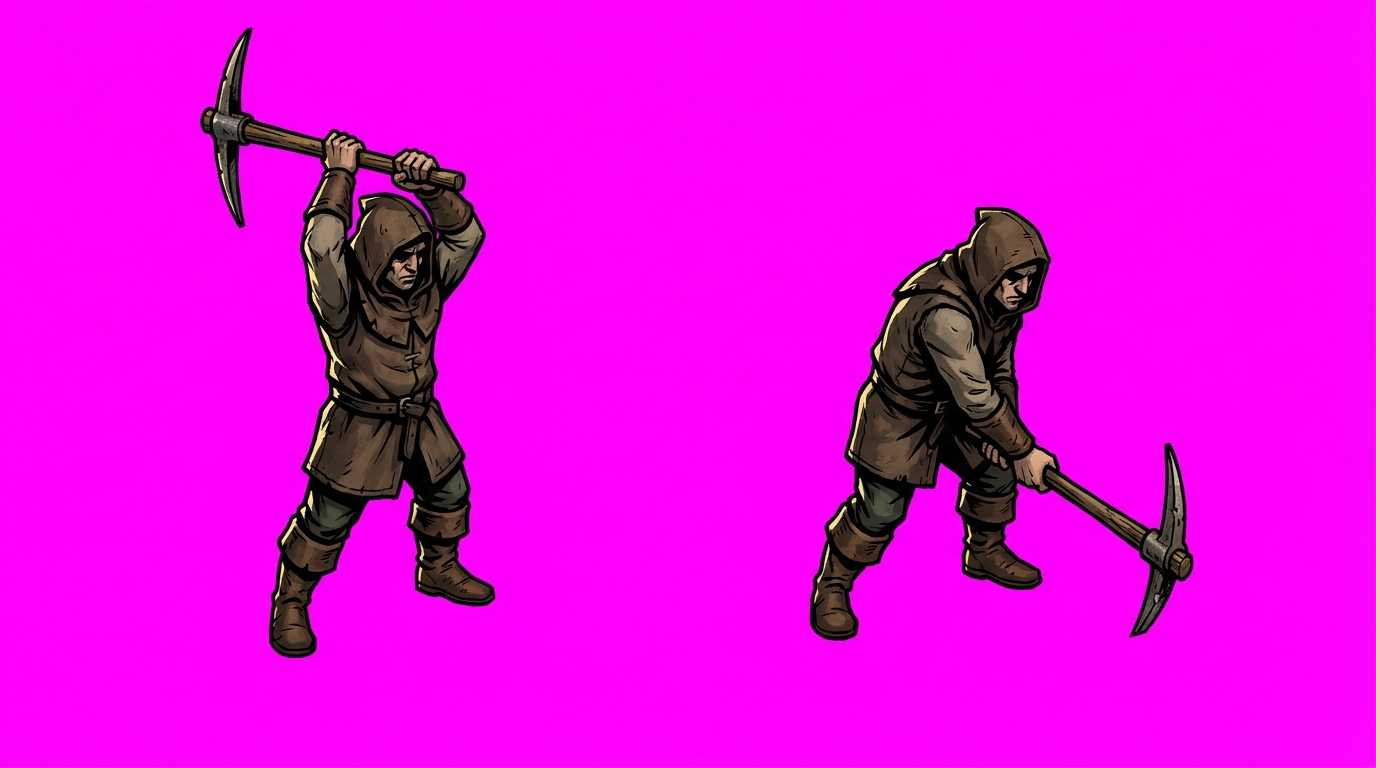
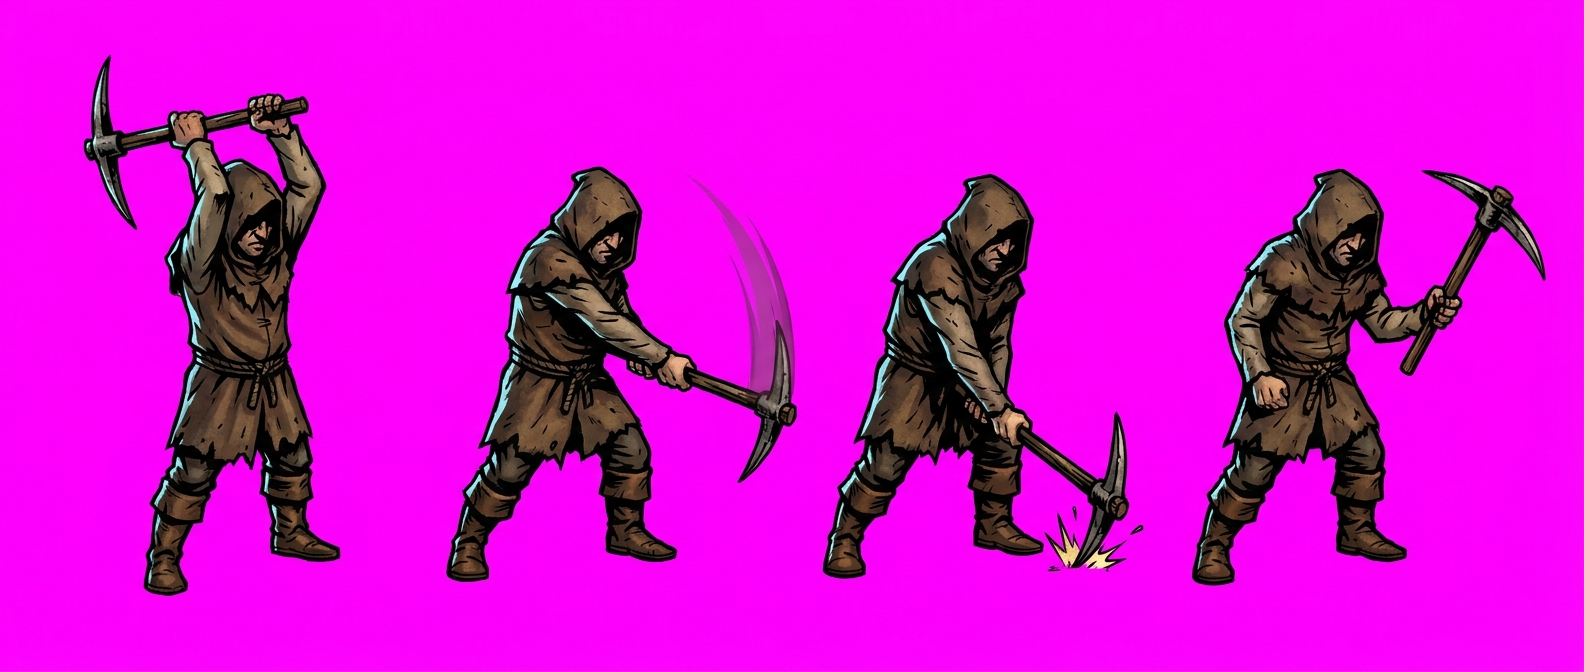
v0.165.0 — work-anim sequencing + smoother mining + slower flap
Renderer: work animation (build/mine/chop) only plays when the worker has arrived
(atWork = path empty + no finalTarget); walking workers use the walk sprite.
movement.separate(): skip units gathering / building-once-arrived so clustered
workers stop sliding. Mining sheet regenerated to 4 frames (gen_mine 4x1). Wing-flap
slowed (rate 6->3.5) and ping-ponged 0,1,2,1 for a smoother cycle. Verified: 4 mine
frames, 0px drift on clustered miners.

diff --git a/src/game/render/Renderer.ts b/src/game/render/Renderer.ts
@@ -1160,16 +1160,21 @@ export class Renderer {
     // ground ellipses can scale proportionally to the (large) sprite.
     // A gathering worker plays a 2-frame pickaxe swing instead of the idle sprite.
     let sprite = this.assets.unitSprite(u.kind, isEnemy);
-    if (u.def.canGather && u.state === "building" && this.assets.buildFrames.length === 3) {
+    // A worker only plays its WORK animation once it has actually arrived and is
+    // standing still — while walking to the site it uses the normal walk sprite,
+    // so it no longer "hammers" or "swings" mid-stride.
+    const atWork = u.path.length === 0 && u.finalTarget === null;
+    if (u.def.canGather && u.state === "building" && atWork && this.assets.buildFrames.length === 3) {
       // Kneeling vertical hammer swing while constructing/repairing.
-      sprite = this.assets.buildFrames[Math.floor(this.now * 7 + u.pos.x) % 3];
-    } else if (u.def.canGather && u.state === "gathering") {
+      sprite = this.assets.buildFrames[Math.floor(this.now * 6 + u.pos.x) % 3];
+    } else if (u.def.canGather && u.state === "gathering" && atWork) {
       // Chop (sideways axe) on forest, mine (pickaxe) on gold.
       const onForest = !!u.resourceTile && world.map.at(u.resourceTile.x, u.resourceTile.y)?.terrain === "forest";
       if (onForest && this.assets.chopFrames.length === 3) {
-        sprite = this.assets.chopFrames[Math.floor(this.now * 8 + u.pos.x) % 3];
-      } else if (this.assets.mineFrames.length === 2) {
-        sprite = this.assets.mineFrames[Math.floor(this.now * 6) % 2];
+        sprite = this.assets.chopFrames[Math.floor(this.now * 7 + u.pos.x) % 3];
+      } else if (this.assets.mineFrames.length >= 2) {
+        const n = this.assets.mineFrames.length;
+        sprite = this.assets.mineFrames[Math.floor(this.now * 7) % n];
       }
     } else if (u.kind === "footman" && u.attackAnim > 0) {
       // Play a 3-frame melee swing during an attack (strike → recover): humans
@@ -1183,8 +1188,10 @@ export class Renderer {
       // Flying units flap continuously (orc dragon vs human griffin), phase-offset
       // per unit so a flight isn't perfectly in sync.
       const flap = isEnemy ? this.assets.dragonFlapFrames : this.assets.griffinFlapFrames;
-      if (flap.length === 3) {
-        sprite = flap[Math.floor(this.now * 6 + u.pos.x * 0.05) % 3];
+      if (flap.length >= 3) {
+        // Slower, smoother flap; ping-pong so 3 frames read as up→level→down→level.
+        const seq = [0, 1, 2, 1];
+        sprite = flap[seq[Math.floor(this.now * 3.5 + u.pos.x * 0.04) % seq.length]];
       }
     } else if (u.kind === "mage" && u.attackAnim > 0) {
       // Cast cycle (release → recover): human mage vs orc warlock.

diff --git a/src/game/render/assets.ts b/src/game/render/assets.ts
@@ -293,10 +293,9 @@ export class Assets {
     jobs.push(
       load(inl?.mine ?? "/gen_mine.jpg").then((img) => {
         if (!img) return;
-        const m = sliceGrid(img, 2, 1, ["mine0", "mine1"]);
-        const a = m.get("mine0");
-        const bb = m.get("mine1");
-        if (a && bb) this.mineFrames = [a, bb];
+        const m = sliceGrid(img, 4, 1, ["mine0", "mine1", "mine2", "mine3"]);
+        const fr = [m.get("mine0"), m.get("mine1"), m.get("mine2"), m.get("mine3")];
+        if (fr.every(Boolean)) this.mineFrames = fr as CanvasImageSource[];
       }),
     );
     // Worker chopping (axe) + building (hammer) 3-frame swings.

diff --git a/src/game/systems/movement.ts b/src/game/systems/movement.ts
@@ -74,6 +74,13 @@ export function separate(world: World, dt: number): void {
 
   for (const u of world.units) {
     if (u.dead) continue;
+    // Units actively working in place (mining/chopping, or building once arrived)
+    // hold their ground — otherwise clustered workers shove each other and appear
+    // to slide back and forth instead of standing and swinging.
+    const working =
+      u.state === "gathering" ||
+      (u.state === "building" && u.path.length === 0 && u.finalTarget === null);
+    if (working) continue;
     const cx = Math.floor(u.pos.x / cell);
     const cy = Math.floor(u.pos.y / cell);
     let pushX = 0;

diff --git a/CHANGELOG.md b/CHANGELOG.md
@@ -6,6 +6,17 @@ working tree back to one: `git checkout v0.3.0` (and `git checkout main` to
 return). The autonomous improvement loop bumps the minor version and tags a new
 snapshot after each major change.
 
+## v0.165.0 — Work-anim sequencing + smoother mining _(2026-06-07)_
+- Workers now **walk to the site, stop, then start the work animation** — no more
+  hammering or swinging mid-stride (the work anim is gated on actually having
+  arrived).
+- **Miners no longer slide** while working: separation leaves units that are
+  mining/chopping (or building, once arrived) planted in place.
+- **Mining animation is now 4 frames** (raise → swing → strike+spark → recover),
+  much smoother than the old 2.
+- **Wing-flap slowed and smoothed** via a 4-step ping-pong over the 3 poses
+  (up → level → down → level). True extra flap frames + knight gallop next.
+
 ## v0.164.0 — Separate peon work anims + slower gather _(2026-06-07)_
 - Workers now have **distinct 3-frame animations per task**: mining = pickaxe
   (existing), **chopping** = a sideways **axe** swing, **building** = kneeling on one